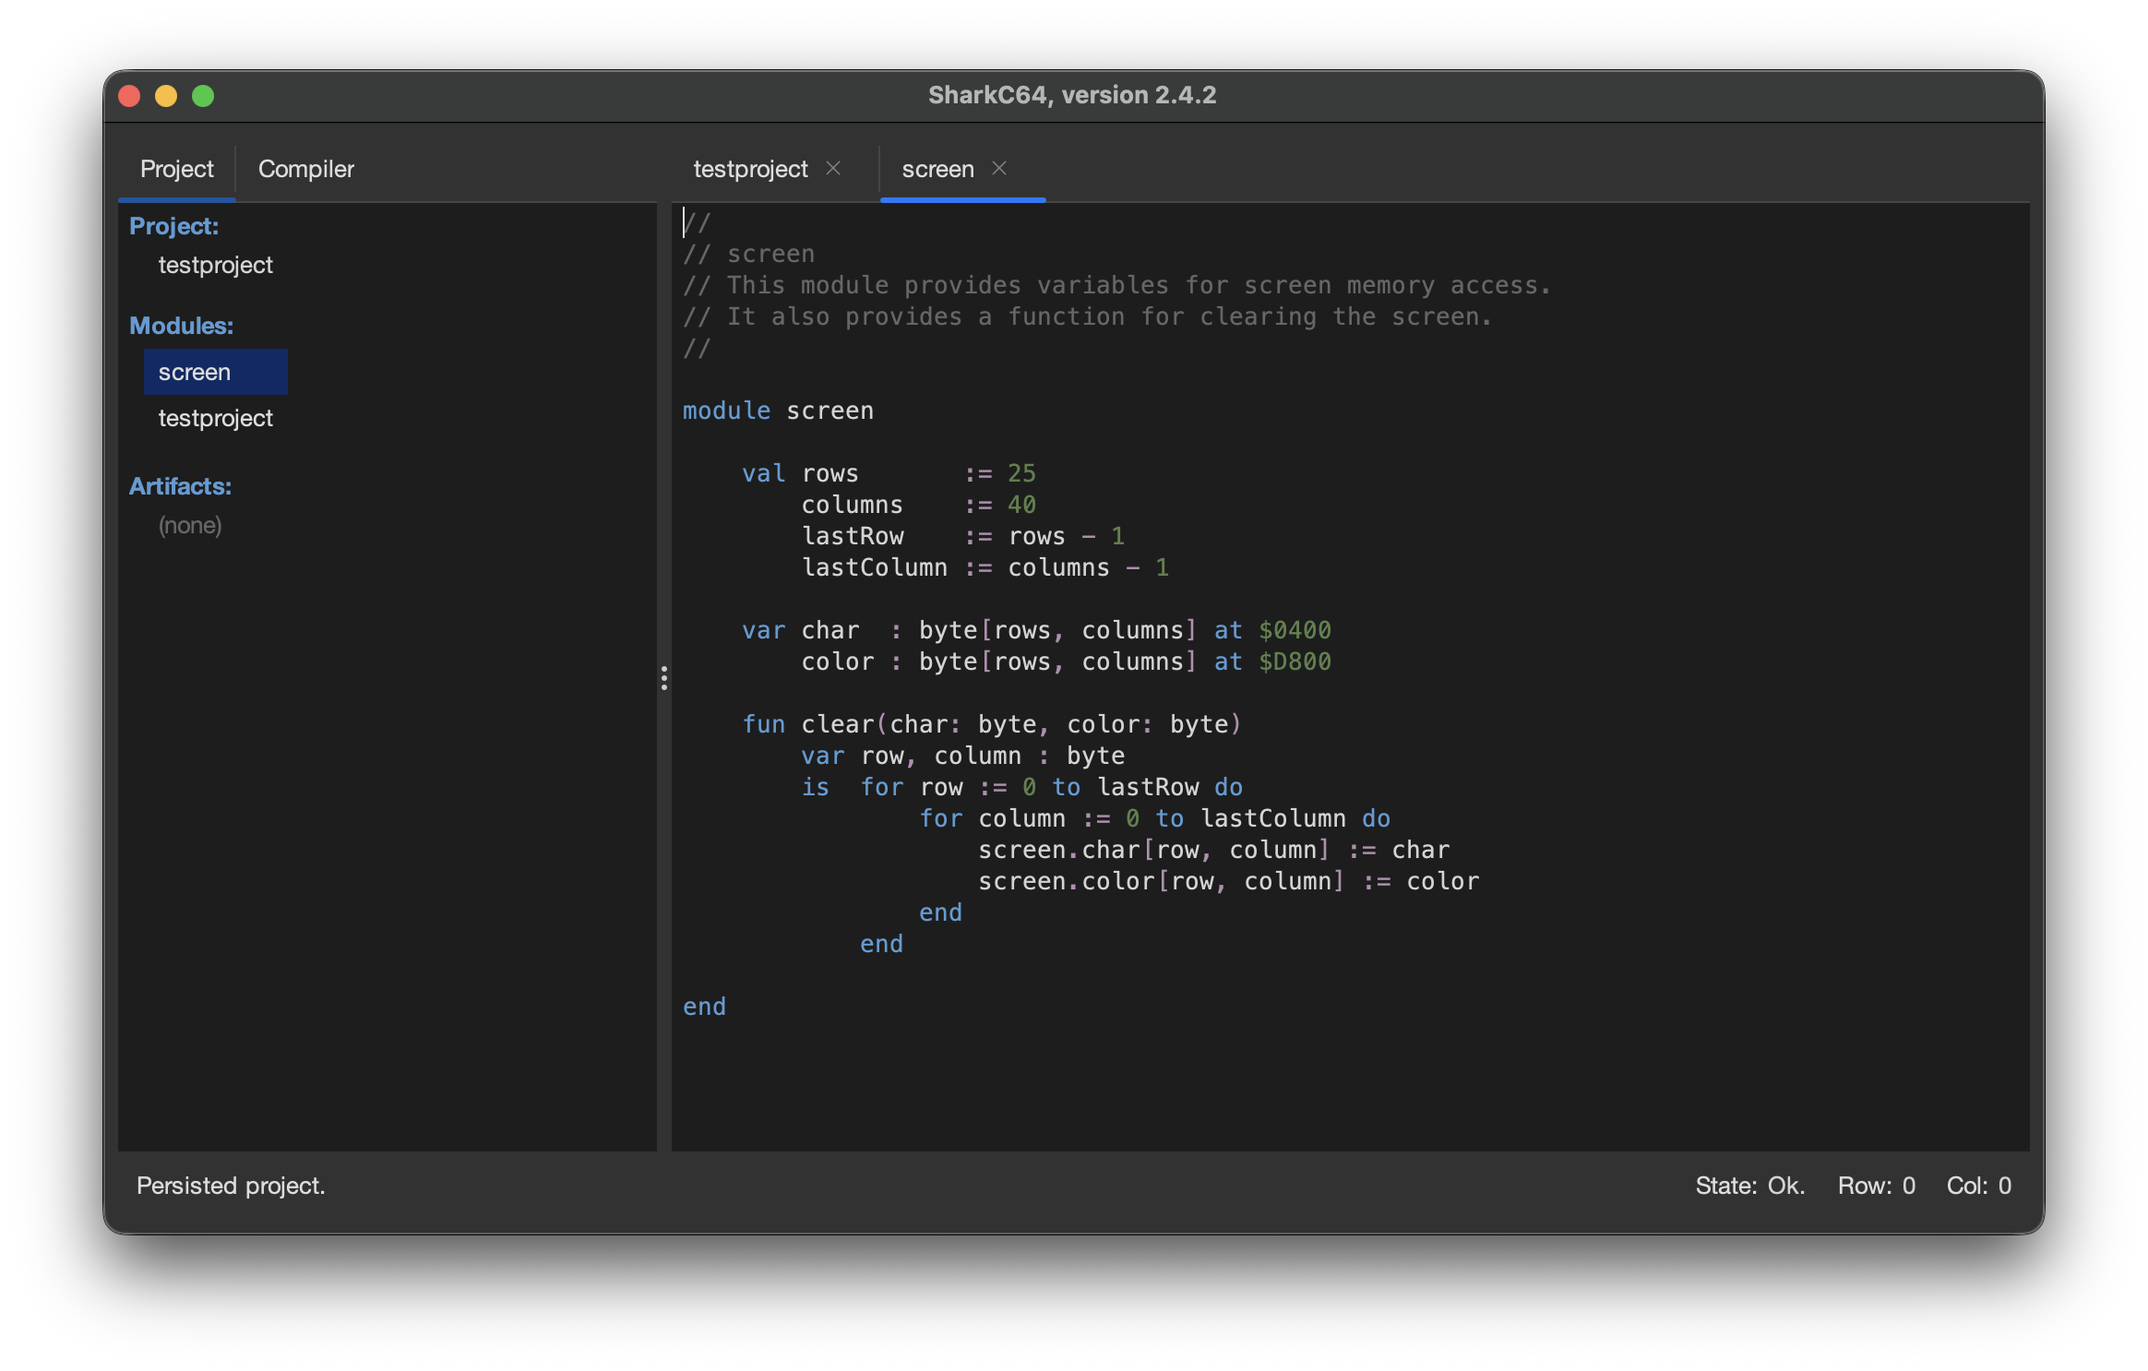
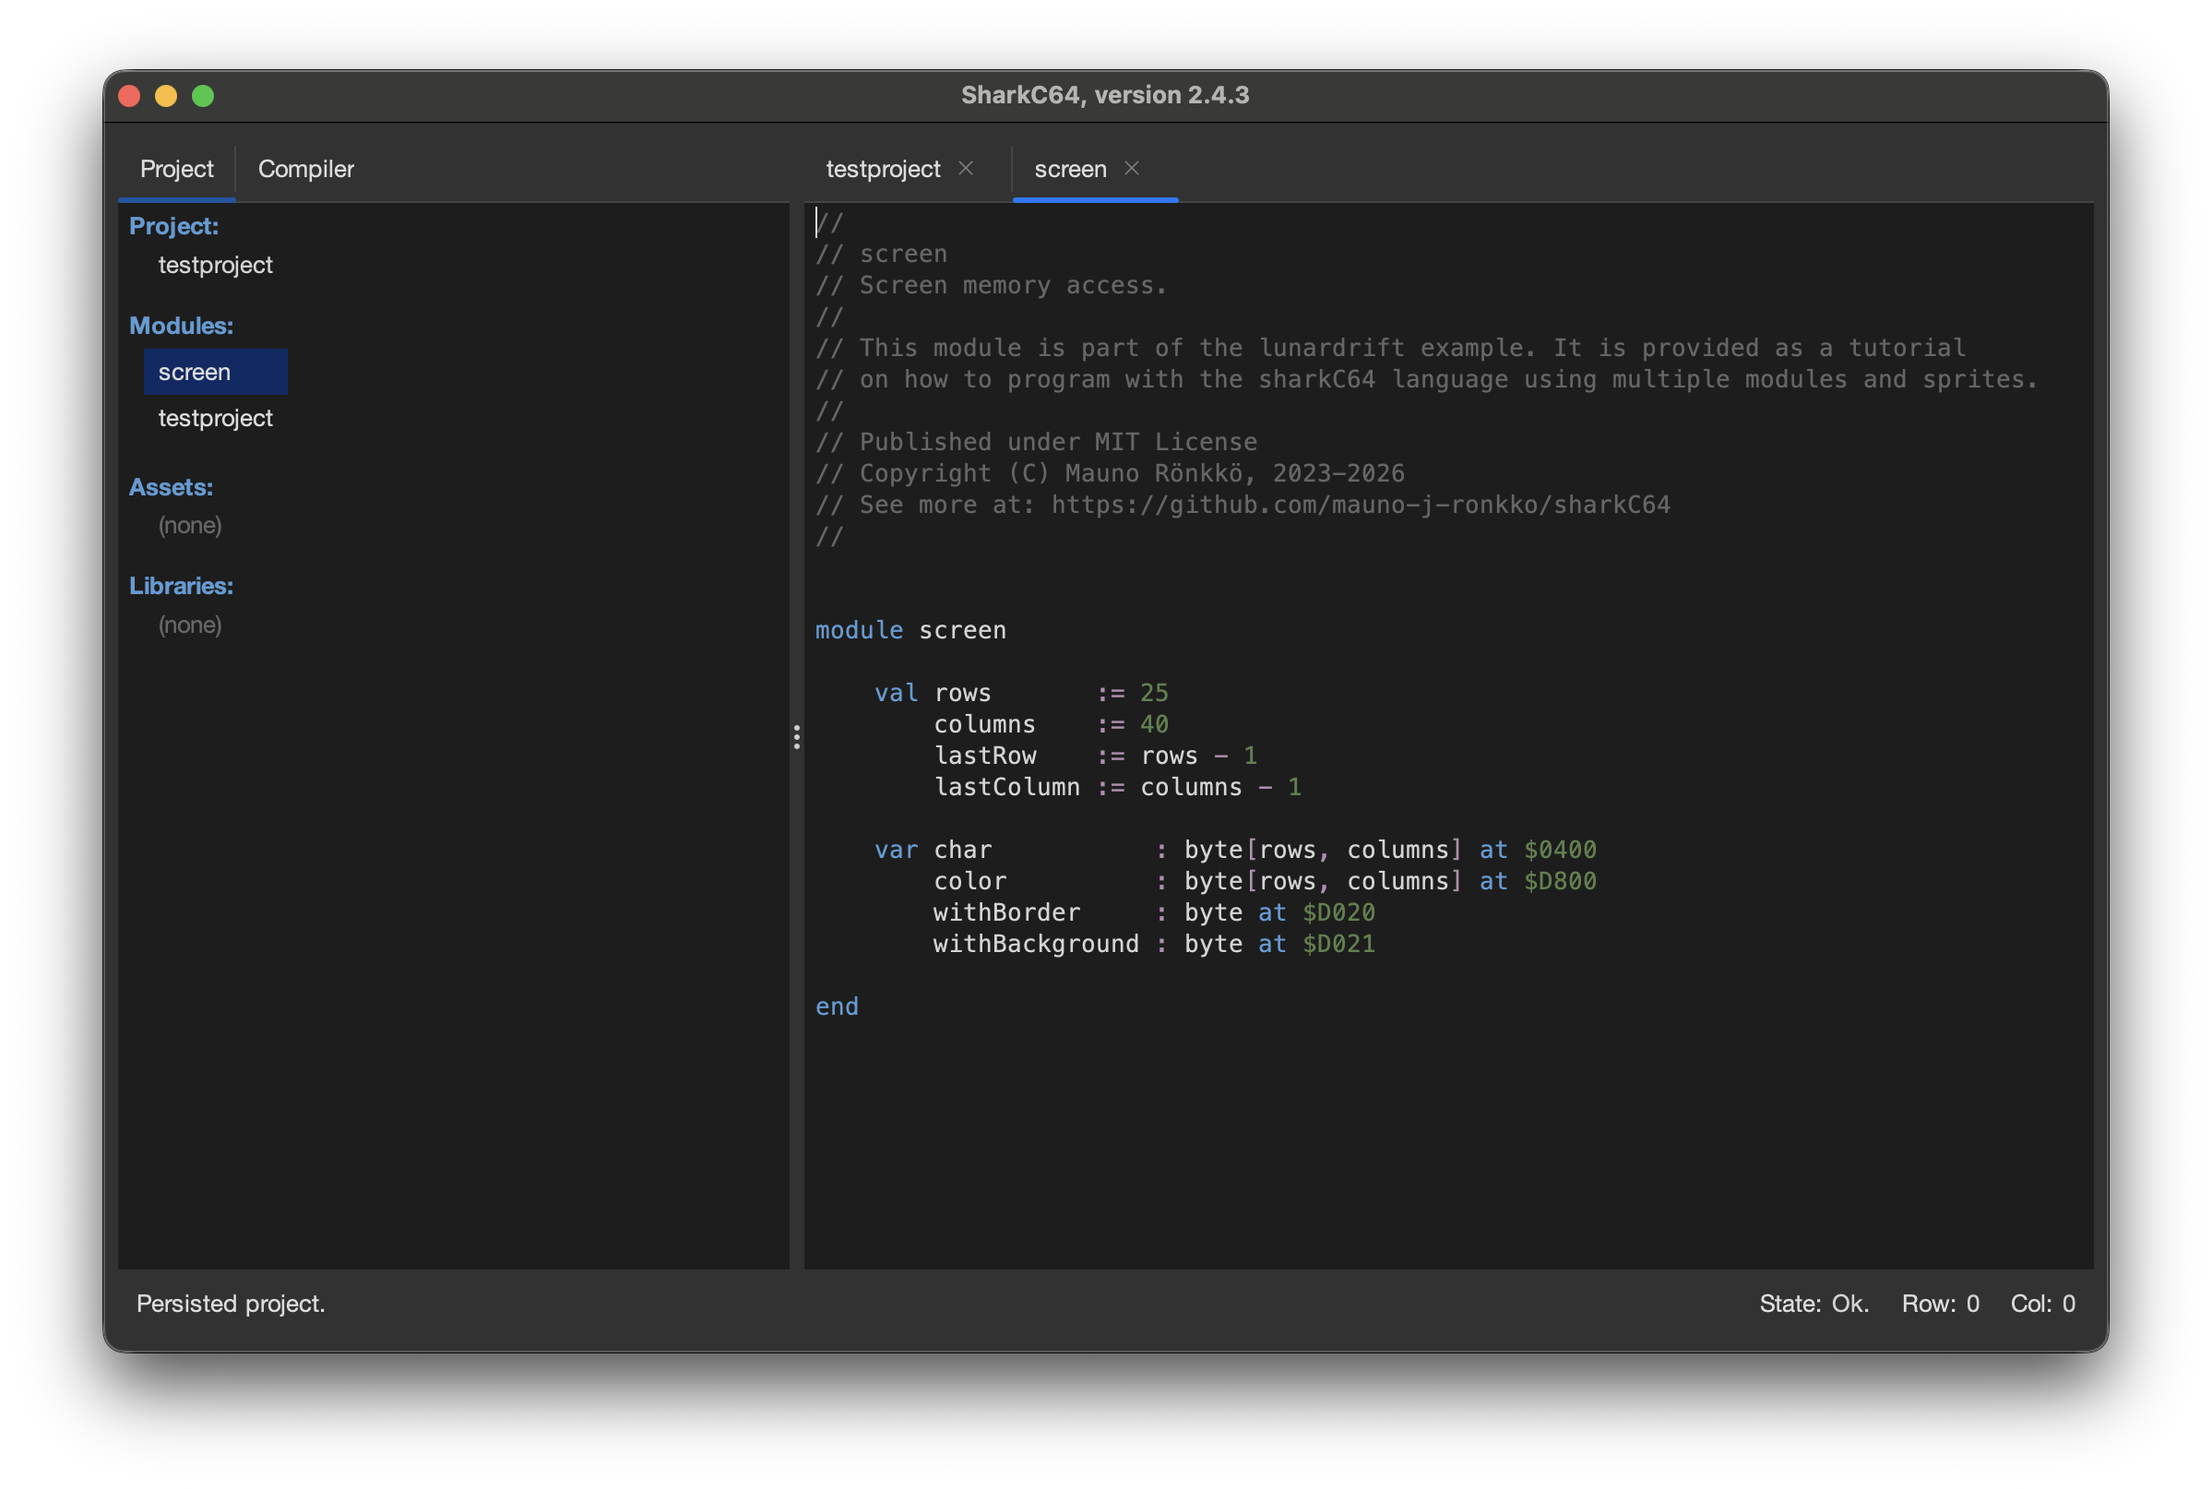
Version 2.4.3

diff --git a/docs/ide/examples/examples.md b/docs/ide/examples/examples.md
@@ -1,16 +1,28 @@
-# List of reference projects and examples
+# List of reference projects, reference libraries, and examples
 
 Below is the list of available reference projects for SharkC64.
-You can download a reference project by selecting "Download Reference Project..." from the Help menu.
+You can download a reference project by selecting "Download Reference Project..." from Help menu.
 
 | Name       | Description                                                         | Added |
 |------------|---------------------------------------------------------------------|-------|
 | pingpong   | A classic breakout-like game demonstrating access to screen memory. | 1.0   |
 | lunardrift | A classic lander-like game demonstrating use of sprites.            | 2.4.1 |
 
+There are also reference library modules that are used by reference projects or examples.
+You can download a reference library to a persisted project by selecting 
+"Download Reference Library..." from Help menu.
+
+| Name                                    | Contains             | Added |
+|-----------------------------------------|----------------------|-------|
+| [color](../../../libraries/color.s64)   | color constants      | 2.4.3 |
+| [print](../../../libraries/print.s64)   | prinit functions     | 2.4.3 |
+| [screen](../../../libraries/screen.s64) | Screen memory access | 2.4.3 |
+| [sprite](../../../libraries/sprite.s64) | Sprite functions     | 2.4.3 |
+
+
 There are also short example code snippets available.
 Below is a lost of the code snippets illustrating the use of specific SharkC64 language features.
-You can download an example code snippet by seleting the "Download Example..." item from the Help menu.
+You can download an example code snippet by selecting "Download Example..." from Help menu.
 
 | Name                                           | How to ...                                    | Added  |
 |------------------------------------------------|-----------------------------------------------|--------|
@@ -36,14 +48,6 @@ You can download an example code snippet by seleting the "Download Example..." i
 | [example14](../../../examples/example14.s64)   | use int variables                             | 2.3    |                                                |                                              |        |
 
 
-The code snippets above use the following utility modules that can be downloaded
-along the code snippets.
-
-| Name                                | Purpose                     | Used by              |
-|-------------------------------------|-----------------------------|----------------------|
-| [block](../../../examples/block.s64)   | draws a block on the screen | example11b           |
-| [color](../../../examples/color.s64)   | defines color constants     | example8,9,11b,13,14 |
-| [screen](../../../examples/screen.s64) | screen memory access        | example11b,14        |
 
 
 <br /><br />

diff --git a/docs/ide/designer/diagram.md b/docs/ide/designer/diagram.md
@@ -9,21 +9,21 @@ It first builds the entire project and then opens a dependency diagram based on 
 The diagram is shown in the Editor view. 
 For instance, for the lunardrift project, the module dependency diagram looks like this.
 
-![Module dependency diagram](../../images/diagram/dependency-diagram.png)
+![Module dependency diagram](../../images/diagram/diagram.png)
 
 You can click which details you wish to see in the diagram with the checkboxes. 
 The diagram is updated immediately with your choice.
 
-![Dependency diagram with details](../../images/diagram/dependency-diagram-with-details.png)
+![Dependency diagram with details](../../images/diagram/diagram-with-details.png)
 
 You can also zoom in and out the diagram, for instance to fit it entire in the view.
 
-![Dependency diagram zoomed](../../images/diagram/dependency-diagram-zoomed.png)
+![Dependency diagram zoomed](../../images/diagram/diagram-zoomed.png)
 
 If you click a module in the diagram, it is highlighted along with all its dependencies.
 This information helps in refining the implementation to minimize unwanted dependencies.
 
-![Dependency diagram clicked](../../images/diagram/dependency-diargam-module-clicked.png)
+![Dependency diagram clicked](../../images/diagram/diagram-module-clicked.png)
 
 If you click an element in a highlighted module in the diagram, the corresponding module
 is opened in the editor with the element selected. For instance, in the image above,
@@ -32,10 +32,16 @@ if you click the thrustDown element, it is shown in the editor.
 ![Editor with select element](../../images/diagram/editor-thrustdown.png)
 
 
+If you deselect assets and libraries from the module diagram, 
+you get to see just the program modules and their dependencies.
+This greatly helps in understanding the actual structure of the program.
+
+![Dependency diagram of program modules](../../images/diagram/diagram-with-program-modules.png)
+
 
 There are also two buttons "rebuild" and "save..." in the control panel.
 
-![Module dependency diagram](../../images/diagram/dependency-diagram.png)
+![Module dependency diagram](../../images/diagram/diagram.png)
 
 By clicking "rebuild", the integrated development environment rebuilds
 the project and then updates the diagram to match the built project.

diff --git a/docs/ide/examples/download-example.md b/docs/ide/examples/download-example.md
@@ -1,7 +1,7 @@
 # Downloading an example
 
-You can download both short examples reference projects.
-Downloading of a short example is done from the Help menu.
+You can download examples, reference libraries, and reference projects.
+Downloading of an example is done from the Help menu.
 
 ![Help menu](../../images/menu/help.png)
 
@@ -19,6 +19,20 @@ Then, a transient project is created for the downloaded example
 ![Example 10](../../images/project/example-10.png)
 
 
+## Downloading a reference library
+
+To download a reference library, select "Download Reference Library..." from the Help menu.
+When you select it, a dialog is shown that lets you select the library to be downloaded.
+
+![Reference library download dialog](../../images/dialog/download-library.png)
+
+Once you select a library, and click the Download button,
+SharkC64 downloads it and adds it to the libraries in the project,
+like the color library in the project image below.
+Note that you can download a library only to a persisted project.
+
+![Downloaded library](../../images/project/downloaded-library.png)
+
 ## Downloading a reference project
 
 SharkC64 provides also entire reference projects to download and experiment with.
@@ -27,7 +41,7 @@ Each project consists of several modules.
 To download a reference project, select "Download Reference Project..." from the Help menu. 
 When you select it, a dialog is shown that lets you select the project to be downloaded.
 
-![Example project download dialog](../../images/dialog/download-project.png)
+![Reference project download dialog](../../images/dialog/download-project.png)
 
 Once you select a project, and click the Download button, 
 SharkC64 starts to download all the modules of that project and shows a progress dialog.
@@ -38,7 +52,7 @@ A downloaded project is automatically stored as a persisted project.
 After all the modules have been downloaded, SharkC64 opens the project.
 You can then run and experiment with it freely.
 
-![Downloaded project](../../images/project/downloaded-project.png)
+![Downloaded reference project](../../images/project/downloaded-project.png)
 
 <br /><br />
 :leftwards_arrow_with_hook: [Back to index](../../index.md)

diff --git a/docs/index.md b/docs/index.md
@@ -49,19 +49,20 @@ The SharkC64 IDE is published under MIT license.
    2. Working with Examples
       1. [Downloading an example](ide/examples/download-example.md)
       2. [Running a downloaded example](ide/examples/run-example.md)
-      3. [List of reference projects and examples](ide/examples/examples.md)
+      3. [List of reference projects, reference libraries, and examples](ide/examples/examples.md)
    3. Working with Projects
       1. [Creating a new project](ide/projects/new-project.md)
       2. [Persisting a transient project](ide/projects/persist-project.md)
       3. [Opening an existing project](ide/projects/open-project.md)
       4. [Adding a new module to the project](ide/projects/add-module.md)
       5. [Importing an existing module to the project](ide/projects/import-module.md)
-      6. [Editing a module](ide/projects/edit-module.md)
-      7. [Working with autocomplete](ide/projects/autocomplete.md)
-      7. [Deleting a module from the project](ide/projects/delete-module.md)
-      8. [Saving changes in a module](ide/projects/save-module.md)
-      9. [Reverting a module to opened state](ide/projects/revert-module.md)
-      10. [Closing an open project](ide/projects/close-project.md)
+      6. [Importing an existing library module to the project](ide/projects/import-library.md)
+      7. [Editing a module](ide/projects/edit-module.md)
+      8. [Working with autocomplete](ide/projects/autocomplete.md)
+      9. [Deleting a module from the project](ide/projects/delete-module.md)
+      10. [Saving changes in a module](ide/projects/save-module.md)
+      11. [Reverting a module to opened state](ide/projects/revert-module.md)
+      12. [Closing an open project](ide/projects/close-project.md)
    4. Compiler Actions
       1. [Compiling a module](ide/compiler/compile.md)
       2. [Building the project](ide/compiler/build.md)

diff --git a/docs/ide/projects/edit-module.md b/docs/ide/projects/edit-module.md
@@ -39,17 +39,19 @@ You can replace the highlighted instance by clicking the "one" button.
 You can replace all the text instances by clicking the "all" button.
 You can close the entire replacement panel by clicking the cross button next to the "all" button.
 
+Note that you cannot replace items in a library module, such as the "screen" module in the image above.
+
 
 ## Jumping in source code
 
 Suppose you have cursor placed in a module source code over a term,
-like `block.height`, as in the image below.
+like `color.yellow`, as in the image below.
 
 ![Jump source module](../../images/editor/jump-source.png)
 
 If you then select the menu item "Jump To...", the SharkC64 IDE
-will automatically open the module `block` and locate the
-first occurrence of the term `height` in it.
+will automatically open the module `color` and locate the
+first occurrence of the term `yellow` in it.
 
 ![Jump target module](../../images/editor/jump-target.png)
 

diff --git a/docs/ide/projects/import-library.md b/docs/ide/projects/import-library.md
@@ -1,0 +1,22 @@
+# Importing an existing module as library module to the project
+
+You can import an existing module to the project as library module from the File menu.
+
+![File menu](../../images/menu/file.png)
+
+To import a module, select the "Import Library..." item.
+It opens a dialog, where you can select the module to be imported as library module.
+
+![Import module dialog](../../images/dialog/import-module.png)
+
+Once, you have selected the module, it is added to the project as library module and shown in the editor view.
+
+![Imported library module in the project](../../images/project/imported-library.png)
+
+Note that the import action fails, if you already have a module with the same name in the project.
+Also, if you have project open, and you download a library from the Help menu,
+it will automatically be added to the project.
+
+<br /><br />
+:leftwards_arrow_with_hook: [Back to index](../../index.md)
+

diff --git a/docs/ide/examples/run-example.md b/docs/ide/examples/run-example.md
@@ -10,8 +10,10 @@ It compiles the module, builds the executable program, and the runs it with
 the given emulator. You can read more about setting the emulator in the
 section [Setting the emulator for running a program](../starting-up/set-emulator.md).
 
-When the SharkC64 IDE has compiled the project successfully, it shows the result
-in the Compiler tab. It also indicates in the status line at the bottom of the window
+When the SharkC64 IDE has compiled the project successfully, it shows statistics
+in the Compiler tab. It shows, for instance, the number of included variables and functions.
+It also shows the maximum call depth in the project.
+SharkC64 also indicates in the status line at the bottom of the window
 that it has started running the emulator. Depending on which emulator and which
 operating system you use, starting the emulator may take some time, when you
 run the project for the first time.

diff --git a/docs/ide/projects/import-module.md b/docs/ide/projects/import-module.md
@@ -4,7 +4,7 @@ You can import an existing module to the project from the File menu.
 
 ![File menu](../../images/menu/file.png)
 
-To import a module, select the "Import..." item.
+To import a module, select the "Import Module..." item.
 It opens a dialog, where you can select the module to be imported.
 
 ![Import module dialog](../../images/dialog/import-module.png)
@@ -14,7 +14,7 @@ Once, you have selected the module, it is added to the project and shown in the 
 ![New module in the project](../../images/project/imported-module.png)
 
 Note that the import action fails, if you already have a module with the same name in the project.
-Also, if you have project open, and you download and example from the Help menu,
+Also, if you have project open, and you download an example from the Help menu,
 it will automatically be added to the project.
 
 <br /><br />

diff --git a/docs/roadmap/history.md b/docs/roadmap/history.md
@@ -1,5 +1,13 @@
 # Release history
 
+## version 2.4.3 published August 23, 2026
+- Added library section to project tab in explorer view
+- Added downloading and importing of libraries
+- Added libraries to module diagram
+- Renamed artifacts section in project tab as assets
+- Improved term recognition in "Jump to" action
+- Fixed bug when adding sprites to a project
+
 ## version 2.4.2 published July 18, 2026
 - Added artifact section to project tab in explorer view
 - Fixed issue with sprite synchronization

diff --git a/docs/ide/designer/sprites.md b/docs/ide/designer/sprites.md
@@ -5,7 +5,7 @@ You can open the sprite editor for a persisted project from the designer menu.
 ![Designer menu](../../images/menu/designer.png)
 
 All sprites are always stored into a module called "sprites".
-It is an artifact module and shown among artifacts in the project tab.
+It is an asset module and shown among assets in the project tab.
 When you open the sprite editor for the first time in a project,
 the module is created automatically and a sprite editor shown in the editor view.
 

diff --git a/docs/ide/compiler/compile.md b/docs/ide/compiler/compile.md
@@ -15,7 +15,7 @@ You can locate the error in the source code by clicking it in the Compiler tab.
 
 After correcting all the errors, the Compiler tab shows a successful compilation result.
 
-![Corrected module](../../images/project/corrected-module.png)
+![Corrected module](../../images/project/built-result.png)
 
 It should be noted that the compilation does create any executable program.
 It merely compiles the active module to check, if it contains any errors.

diff --git a/docs/ide/projects/delete-module.md b/docs/ide/projects/delete-module.md
@@ -10,7 +10,7 @@ either from the Project tab or from the editor view.
 ![Module selected](../../images/project/new-module.png)
 
 Then, select the "Delete" item from the File menu.
-It opens a dialog asking fi you want to move the module to trash.
+It opens a dialog asking if you want to move the module to trash.
 
 ![Trash a module](../../images/dialog/trash-module.png)
 
